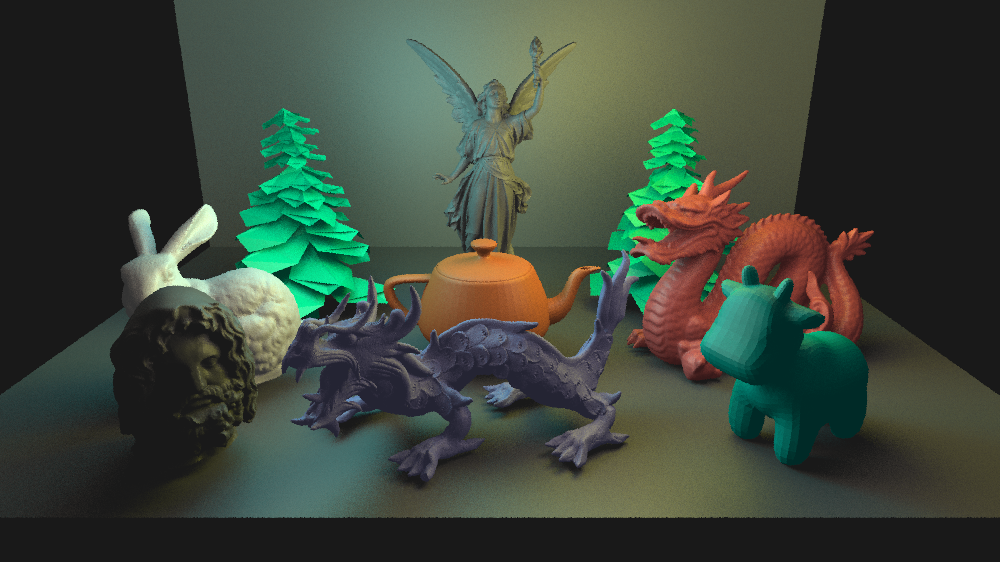
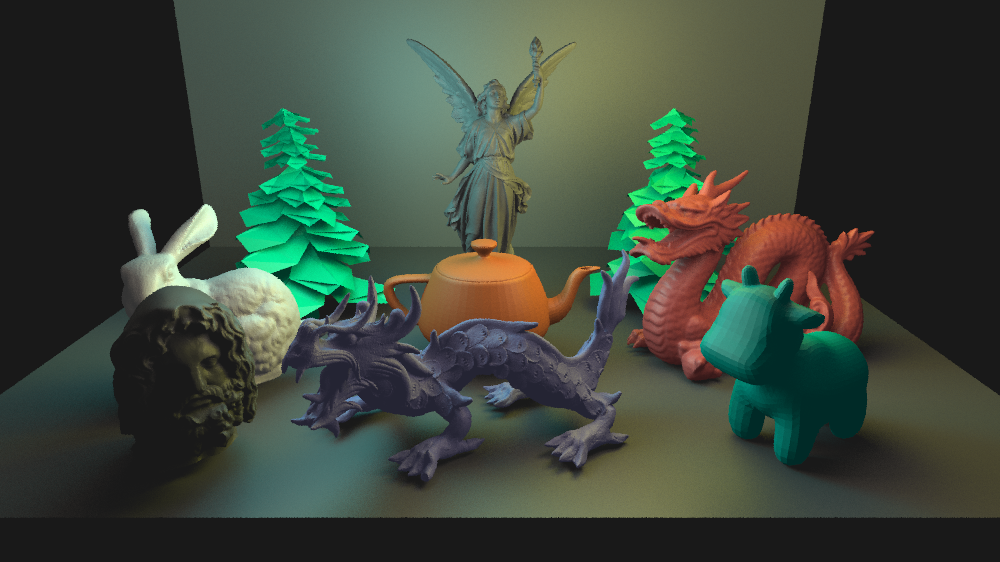
change benchmark scene a bit

diff --git a/demoscenes/demoscenes.h b/demoscenes/demoscenes.h
@@ -1215,7 +1215,7 @@ inline void benchmark_scene_1() {
   const auto aspect_ratio = 16.0 / 9.0;
   const int image_width = 1000;
   const int image_height = static_cast<int>(image_width / aspect_ratio);
-  const int samples_per_pixel = 3;
+  const int samples_per_pixel = 5;
 
   Scene scene(1, 1, 1, 1);
 
@@ -1236,12 +1236,12 @@ inline void benchmark_scene_1() {
   // scene.add_point_light(PointLight(color(0.6, 0.5, 0.4), 30, vec3(-2.5, 2, 0.5)));
   // scene.add_point_light(PointLight(color(0.6, 0.5, 0.4), 30, vec3(2.5, 2, 0.5)));
 
-  scene.add_area_light(AreaLight(color(0, 1, 1), 30, vec3(-2, 2, -1), 1), 3);
-  scene.add_area_light(AreaLight(color(1, 1, 0), 30, vec3(2, 2, -1), 1), 3);
-  scene.add_area_light(AreaLight(color(1, 1, 1), 10, vec3(0, 2, -1), 1), 3);
+  scene.add_area_light(AreaLight(color(0, 1, 1), 30, vec3(-2, 2, -1), 1), 4);
+  scene.add_area_light(AreaLight(color(1, 1, 0), 30, vec3(2, 2, -1), 1), 4);
+  scene.add_area_light(AreaLight(color(1, 1, 1), 10, vec3(0, 2, -1), 1), 4);
 
-  scene.add_area_light(AreaLight(color(0.6, 0.5, 0.4), 30, vec3(-2.5, 2, 0.5), 1), 3);
-  scene.add_area_light(AreaLight(color(0.6, 0.5, 0.4), 30, vec3(2.5, 2, 0.5), 1), 3);
+  scene.add_area_light(AreaLight(color(0.6, 0.5, 0.4), 30, vec3(-2.5, 2, 0.5), 1), 4);
+  scene.add_area_light(AreaLight(color(0.6, 0.5, 0.4), 30, vec3(2.5, 2, 0.5), 1), 4);
 
   mesh teapot("models/teapot.obj", vec3(0.018, 0.018, 0.018), vec3(-0.5, 1, -1),
               vec3(0, 0, 0), color(1, 0.3, 0.1));

diff --git a/constants.h b/constants.h
@@ -13,10 +13,10 @@ const double AMBIENT_CONSTANT = 0.05;
 const bool USE_SHADOWS = true;
 const bool NORMAL_MODE = false;
 const bool DEBUG_GRID = false;
-const bool USE_UNIFORM_GRIDS = true;
-const bool USE_BVH = false;
+const bool USE_UNIFORM_GRIDS = false;
+const bool USE_BVH = true;
 const bool BVH_RANDOM_SPLIT = false;
-const bool BVH_CENTROID_SPLIT = false;
+const bool BVH_CENTROID_SPLIT = true;
 const bool BVH_SAH_SPLIT = false;
 const double AREA_LIGHTS_SPREAD = 0.05; // previously 0.1
 
